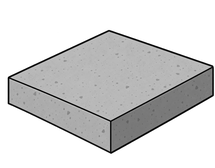
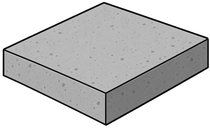
図面・積算：構造体／躯体下地のチップの文字を中央に・絵をチップの幅いっぱいに大きく（コンクリートの絵の透明な余白を切り落とし）（版名 2026-10-21a／nn-cache-v815）

diff --git a/zumen_sekisan.html b/zumen_sekisan.html
@@ -6309,7 +6309,7 @@ nav, nav#nav{justify-content:center !important; padding-left:6px !important; pad
    古いものが出続けることがある。そこで ver.txt（数バイト）だけを
    毎回見に行き、公開版と違っていたら保存分を捨てて1回だけ読み直す。
    ★公開のたびに ver.txt と、下の NN_VER を同じ文字に更新すること。 */
-const NN_VER='2026-10-17zi';
+const NN_VER='2026-10-21a';
 /* ============ 表示にかかった時間の記録（原因調査用・2026-07-28） ============
    スマホの実機でどこに時間がかかっているかを数字で出す。
    ・net  ＝ページを要求してから最初の返事が来るまで（通信の待ち）
@@ -15391,6 +15391,18 @@ html[data-nnphone="1"] .zmCard .kzB[data-kz]>i, html[data-nnphone="1"] .zmCard .
   html[data-nnphone="1"] .zmCard .kzB[data-kz] .kzIc img, html[data-nnphone="1"] .zmCard .kzB[data-dk] .kzIc img{height:38px !important;}
   html[data-nnphone="1"] .zmCard .kzB[data-kz]>i, html[data-nnphone="1"] .zmCard .kzB[data-dk]>i{font-size:10px !important;}
 }
+/* ★2026-10-21 本人の指摘「RC造などの文字が中央にない」「絵が小さい・枠に無駄な余白」。
+   文字の帯は幅いっぱいなのに text-align が無く左寄りだった→中央に。
+   絵は「高さ固定」だと縦長の絵（RC造）が細くなる→チップの幅いっぱいの箱に object-fit:contain で収める。
+   （dk_conc.png は上下の透明な余白を切り落とした。このページでしか使っていない絵） */
+.zmCard .kzB[data-kz]>i, .zmCard .kzB[data-dk]>i{text-align:center;}
+.zmCard .kzB[data-kz] .kzIc, .zmCard .kzB[data-dk] .kzIc{width:100%; display:flex; align-items:center; justify-content:center;}
+.zmCard .kzB[data-kz] .kzIc img, .zmCard .kzB[data-dk] .kzIc img{width:100% !important; max-width:none !important; object-fit:contain;}
+html:not([data-nnphone="1"]) .zmCard .kzB[data-kz], html:not([data-nnphone="1"]) .zmCard .kzB[data-dk]{
+  width:86px; min-width:86px !important; padding:2px 2px 0 !important; gap:2px !important;}
+html:not([data-nnphone="1"]) .zmCard .kzB[data-kz] .kzIc img, html:not([data-nnphone="1"]) .zmCard .kzB[data-dk] .kzIc img{height:62px !important;}
+.zmCard .kzB[data-kz]>i, .zmCard .kzB[data-dk]>i{width:calc(100% + 4px) !important; margin:0 -2px !important;}
+html[data-nnphone="1"] .zmCard .kzB[data-kz], html[data-nnphone="1"] .zmCard .kzB[data-dk]{padding:2px 2px 0 !important;}
 /* ── ④ パラペット設定：アゴ＋立上り・天端（mm） ── */
 .zmCard .zmRow.zmAgoRow .agoWrap{display:flex; align-items:center; gap:10px; flex-wrap:wrap; min-width:0;}
 .zmCard .pvSz{display:flex; align-items:center; gap:8px;}

diff --git a/index.html b/index.html
@@ -399,7 +399,7 @@ nav, nav#nav{overflow:visible; padding-top:2px;}
 
 <!-- 版の表示：スマホに届いている中身がどれかを、お互いに確認するための小さな印。
      不要になったらこの1行と #nnver の指定を消してください。 -->
-<div id="nnver">v2026-10-17 zi</div>
+<div id="nnver">v2026-10-21 a</div>
 <script>
 /* ============ 実機の計測結果を表示（原因調査用・2026-07-28） ============
    数字の意味（単位はミリ秒）
@@ -752,7 +752,7 @@ nav, nav#nav{justify-content:center !important; padding-left:6px !important; pad
    古いものが出続けることがある。そこで ver.txt（数バイト）だけを
    毎回見に行き、公開版と違っていたら保存分を捨てて1回だけ読み直す。
    ★公開のたびに ver.txt と、下の NN_VER を同じ文字に更新すること。 */
-const NN_VER='2026-10-17zi';
+const NN_VER='2026-10-21a';
 /* ============ 表示にかかった時間の記録（原因調査用・2026-07-28） ============
    スマホの実機でどこに時間がかかっているかを数字で出す。
    ・net  ＝ページを要求してから最初の返事が来るまで（通信の待ち）

diff --git a/camera.html b/camera.html
@@ -1273,7 +1273,7 @@ nav, nav#nav{justify-content:center !important; padding-left:6px !important; pad
    古いものが出続けることがある。そこで ver.txt（数バイト）だけを
    毎回見に行き、公開版と違っていたら保存分を捨てて1回だけ読み直す。
    ★公開のたびに ver.txt と、下の NN_VER を同じ文字に更新すること。 */
-const NN_VER='2026-10-17zi';
+const NN_VER='2026-10-21a';
 /* ============ 表示にかかった時間の記録（原因調査用・2026-07-28） ============
    スマホの実機でどこに時間がかかっているかを数字で出す。
    ・net  ＝ページを要求してから最初の返事が来るまで（通信の待ち）

diff --git a/genba_map_v36.html b/genba_map_v36.html
@@ -5025,7 +5025,7 @@ nav, nav#nav{justify-content:center !important; padding-left:6px !important; pad
    古いものが出続けることがある。そこで ver.txt（数バイト）だけを
    毎回見に行き、公開版と違っていたら保存分を捨てて1回だけ読み直す。
    ★公開のたびに ver.txt と、下の NN_VER を同じ文字に更新すること。 */
-const NN_VER='2026-10-17zi';
+const NN_VER='2026-10-21a';
 /* ============ 表示にかかった時間の記録（原因調査用・2026-07-28） ============
    スマホの実機でどこに時間がかかっているかを数字で出す。
    ・net  ＝ページを要求してから最初の返事が来るまで（通信の待ち）

diff --git a/hacchu.html b/hacchu.html
@@ -1103,7 +1103,7 @@ nav, nav#nav{justify-content:center !important; padding-left:6px !important; pad
    古いものが出続けることがある。そこで ver.txt（数バイト）だけを
    毎回見に行き、公開版と違っていたら保存分を捨てて1回だけ読み直す。
    ★公開のたびに ver.txt と、下の NN_VER を同じ文字に更新すること。 */
-const NN_VER='2026-10-17zi';
+const NN_VER='2026-10-21a';
 /* ============ 表示にかかった時間の記録（原因調査用・2026-07-28） ============
    スマホの実機でどこに時間がかかっているかを数字で出す。
    ・net  ＝ページを要求してから最初の返事が来るまで（通信の待ち）

diff --git a/kirokucho_demo.html b/kirokucho_demo.html
@@ -4847,7 +4847,7 @@ nav, nav#nav{justify-content:center !important; padding-left:6px !important; pad
    古いものが出続けることがある。そこで ver.txt（数バイト）だけを
    毎回見に行き、公開版と違っていたら保存分を捨てて1回だけ読み直す。
    ★公開のたびに ver.txt と、下の NN_VER を同じ文字に更新すること。 */
-const NN_VER='2026-10-17zi';
+const NN_VER='2026-10-21a';
 /* ============ 表示にかかった時間の記録（原因調査用・2026-07-28） ============
    スマホの実機でどこに時間がかかっているかを数字で出す。
    ・net  ＝ページを要求してから最初の返事が来るまで（通信の待ち）

diff --git a/kokkosho.html b/kokkosho.html
@@ -2468,7 +2468,7 @@ nav, nav#nav{justify-content:center !important; padding-left:6px !important; pad
    古いものが出続けることがある。そこで ver.txt（数バイト）だけを
    毎回見に行き、公開版と違っていたら保存分を捨てて1回だけ読み直す。
    ★公開のたびに ver.txt と、下の NN_VER を同じ文字に更新すること。 */
-const NN_VER='2026-10-17zi';
+const NN_VER='2026-10-21a';
 /* ============ 表示にかかった時間の記録（原因調査用・2026-07-28） ============
    スマホの実機でどこに時間がかかっているかを数字で出す。
    ・net  ＝ページを要求してから最初の返事が来るまで（通信の待ち）

diff --git a/library.html b/library.html
@@ -1170,7 +1170,7 @@ nav, nav#nav{justify-content:center !important; padding-left:6px !important; pad
    古いものが出続けることがある。そこで ver.txt（数バイト）だけを
    毎回見に行き、公開版と違っていたら保存分を捨てて1回だけ読み直す。
    ★公開のたびに ver.txt と、下の NN_VER を同じ文字に更新すること。 */
-const NN_VER='2026-10-17zi';
+const NN_VER='2026-10-21a';
 /* ============ 表示にかかった時間の記録（原因調査用・2026-07-28） ============
    スマホの実機でどこに時間がかかっているかを数字で出す。
    ・net  ＝ページを要求してから最初の返事が来るまで（通信の待ち）

diff --git a/shiyo_toroku.html b/shiyo_toroku.html
@@ -1798,7 +1798,7 @@ nav, nav#nav{justify-content:center !important; padding-left:6px !important; pad
    古いものが出続けることがある。そこで ver.txt（数バイト）だけを
    毎回見に行き、公開版と違っていたら保存分を捨てて1回だけ読み直す。
    ★公開のたびに ver.txt と、下の NN_VER を同じ文字に更新すること。 */
-const NN_VER='2026-10-17zi';
+const NN_VER='2026-10-21a';
 /* ============ 表示にかかった時間の記録（原因調査用・2026-07-28） ============
    スマホの実機でどこに時間がかかっているかを数字で出す。
    ・net  ＝ページを要求してから最初の返事が来るまで（通信の待ち）

diff --git a/yougo.html b/yougo.html
@@ -1406,7 +1406,7 @@ nav, nav#nav{justify-content:center !important; padding-left:6px !important; pad
    古いものが出続けることがある。そこで ver.txt（数バイト）だけを
    毎回見に行き、公開版と違っていたら保存分を捨てて1回だけ読み直す。
    ★公開のたびに ver.txt と、下の NN_VER を同じ文字に更新すること。 */
-const NN_VER='2026-10-17zi';
+const NN_VER='2026-10-21a';
 /* ============ 表示にかかった時間の記録（原因調査用・2026-07-28） ============
    スマホの実機でどこに時間がかかっているかを数字で出す。
    ・net  ＝ページを要求してから最初の返事が来るまで（通信の待ち）

diff --git a/zairyo_toroku.html b/zairyo_toroku.html
@@ -1590,7 +1590,7 @@ nav, nav#nav{justify-content:center !important; padding-left:6px !important; pad
    古いものが出続けることがある。そこで ver.txt（数バイト）だけを
    毎回見に行き、公開版と違っていたら保存分を捨てて1回だけ読み直す。
    ★公開のたびに ver.txt と、下の NN_VER を同じ文字に更新すること。 */
-const NN_VER='2026-10-17zi';
+const NN_VER='2026-10-21a';
 /* ============ 表示にかかった時間の記録（原因調査用・2026-07-28） ============
    スマホの実機でどこに時間がかかっているかを数字で出す。
    ・net  ＝ページを要求してから最初の返事が来るまで（通信の待ち）

diff --git a/sw.js b/sw.js
@@ -11,7 +11,7 @@
      ので、こちらの修正が確実に端末へ届く。
      ★ページを直したら、必ずこの番号を1つ上げること。
    ============================================================ */
-const CACHE = 'nn-cache-v814';
+const CACHE = 'nn-cache-v815';
 
 const ASSETS = [
   './repair_takeoff.js',
